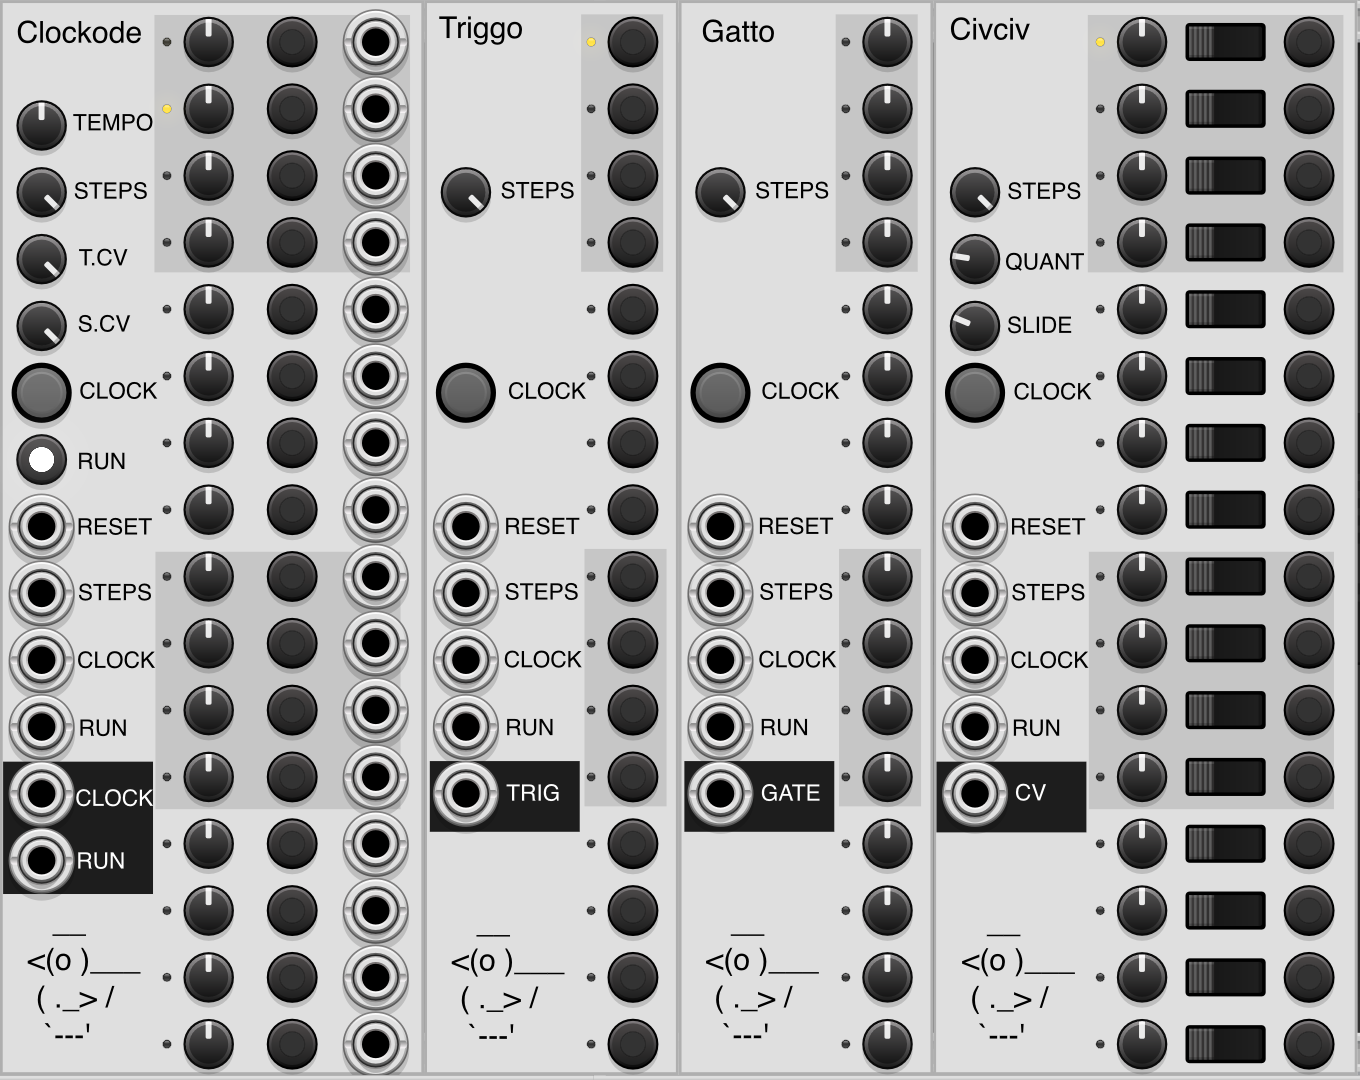
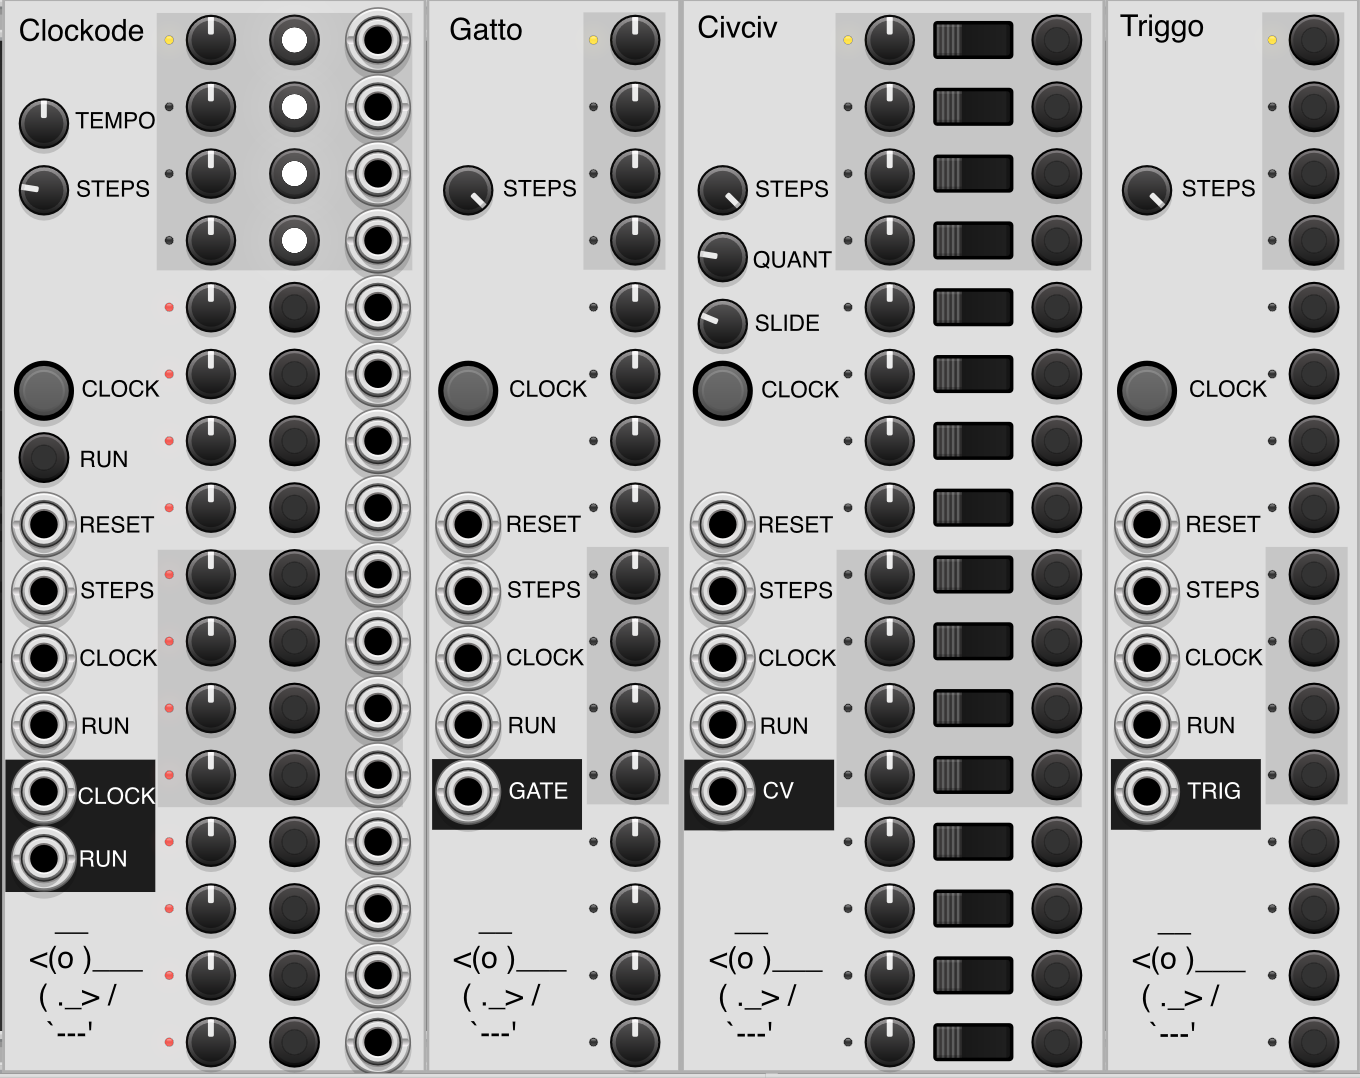
removed knobs for tempo and step control via cv

diff --git a/src/Clockode.cpp b/src/Clockode.cpp
@@ -8,8 +8,6 @@ struct Clockode : Module {
 		TRIG_PARAM,
 		ENUMS(CV_PARAMS, 16),
 		ENUMS(GATE_PARAMS, 16),
-		TEMPO_CV_PARAM,
-		STEPS_CV_PARAM,
 		CLOCK_PARAM,
 		NUM_PARAMS
 	};
@@ -58,14 +56,10 @@ struct Clockode : Module {
 
 		configParam(TEMPO_PARAM, -2.f, 4.f, 1.f, "Tempo", " bpm", 2.f, 60.f);
 		getParamQuantity(TEMPO_PARAM)->randomizeEnabled = false;
-		configParam(TEMPO_CV_PARAM, 0.f, 1.f, 1.f, "Tempo CV", "%", 0, 100);
-		getParamQuantity(TEMPO_CV_PARAM)->randomizeEnabled = false;
 		configButton(CLOCK_PARAM, "Clock");
 		configButton(RUN_PARAM, "Run");
 		configParam(TRIG_PARAM, 1.f, 16.f, 16.f, "Steps");
 		getParamQuantity(TRIG_PARAM)->randomizeEnabled = false;
-		configParam(STEPS_CV_PARAM, 0.f, 1.f, 1.f, "Steps CV", "%", 0, 100);
-		getParamQuantity(STEPS_CV_PARAM)->randomizeEnabled = false;
 		paramQuantities[TRIG_PARAM]->snapEnabled = true;
 		
 		for (int i = 0; i < 16; i++) {
@@ -149,7 +143,7 @@ struct Clockode : Module {
 		bool runGate = runPulse.process(args.sampleTime);
 
 		// Get number of steps
-		float steps = params[TRIG_PARAM].getValue() + inputs[STEPS_INPUT].getVoltage() * params[STEPS_CV_PARAM].getValue();
+		float steps = params[TRIG_PARAM].getValue() + inputs[STEPS_INPUT].getVoltage();
 		int numSteps = (int) clamp(std::round(steps), 1.f, 16.f);
 
 		// Clock
@@ -191,7 +185,7 @@ struct Clockode : Module {
 			}
 			else {
 				// Internal clock
-				float clockPitch = params[TEMPO_PARAM].getValue() + inputs[TEMPO_INPUT].getVoltage() * params[TEMPO_CV_PARAM].getValue();
+				float clockPitch = params[TEMPO_PARAM].getValue() + inputs[TEMPO_INPUT].getVoltage();
 				float clockFreq = dsp::exp2_taylor5(clockPitch);
 				period = 1.f / clockFreq;
 				phase += clockFreq * args.sampleTime;
@@ -340,8 +334,6 @@ struct ClockodeWidget : ModuleWidget {
 
 		addParam(createParamCentered<Trimpot>(mm2px(Vec(5.0, 15 + 0 * 8)), module, Clockode::TEMPO_PARAM));
 		addParam(createParamCentered<Trimpot>(mm2px(Vec(5.0, 15 + 1 * 8)), module, Clockode::TRIG_PARAM));
-		addParam(createParamCentered<Trimpot>(mm2px(Vec(5.0, 15 + 2 * 8)), module, Clockode::TEMPO_CV_PARAM));
-		addParam(createParamCentered<Trimpot>(mm2px(Vec(5.0, 15 + 3 * 8)), module, Clockode::STEPS_CV_PARAM));
 		addParam(createLightParamCentered<VCVLightBezel<WhiteLight>>(mm2px(Vec(5.0, 15 + 4 * 8)), module, Clockode::CLOCK_PARAM, Clockode::CLOCK_LIGHT));
 		addParam(createLightParamCentered<VCVLightButton<MediumSimpleLight<WhiteLight>>>(mm2px(Vec(5.0, 15 + 5 * 8)), module, Clockode::RUN_PARAM, Clockode::RUN_LIGHT));
 		addInput(createInputCentered<ThemedPJ301MPort>(mm2px(Vec(5.0, 15 + 6 * 8)), module, Clockode::TEMPO_INPUT));

diff --git a/README.md b/README.md
@@ -7,7 +7,7 @@ Requires VCV Rack v2.4.0 or later.
 ## Modules
 
 ### Clockode
-A 16-step **clock source with shiftable step timing**. It generates its own clock (adjustable Tempo, with CV control) or can be driven by an external clock, and outputs a trigger for each of the 16 steps. Step count is also CV-controllable.
+A 16-step **clock source with shiftable step timing**. It generates its own clock (adjustable Tempo) or can be driven by an external clock, and outputs a trigger for each of the 16 steps. Step count is also CV-controllable.
 
 ### Gatto
 A 16-step **gate sequencer** with variable step length. Each step has a trimmer to set its gate duration (0–100%), so you can go from tight ticks to overlapping legato gates. Gate output drives envelopes, or anything else that reacts to gates.
